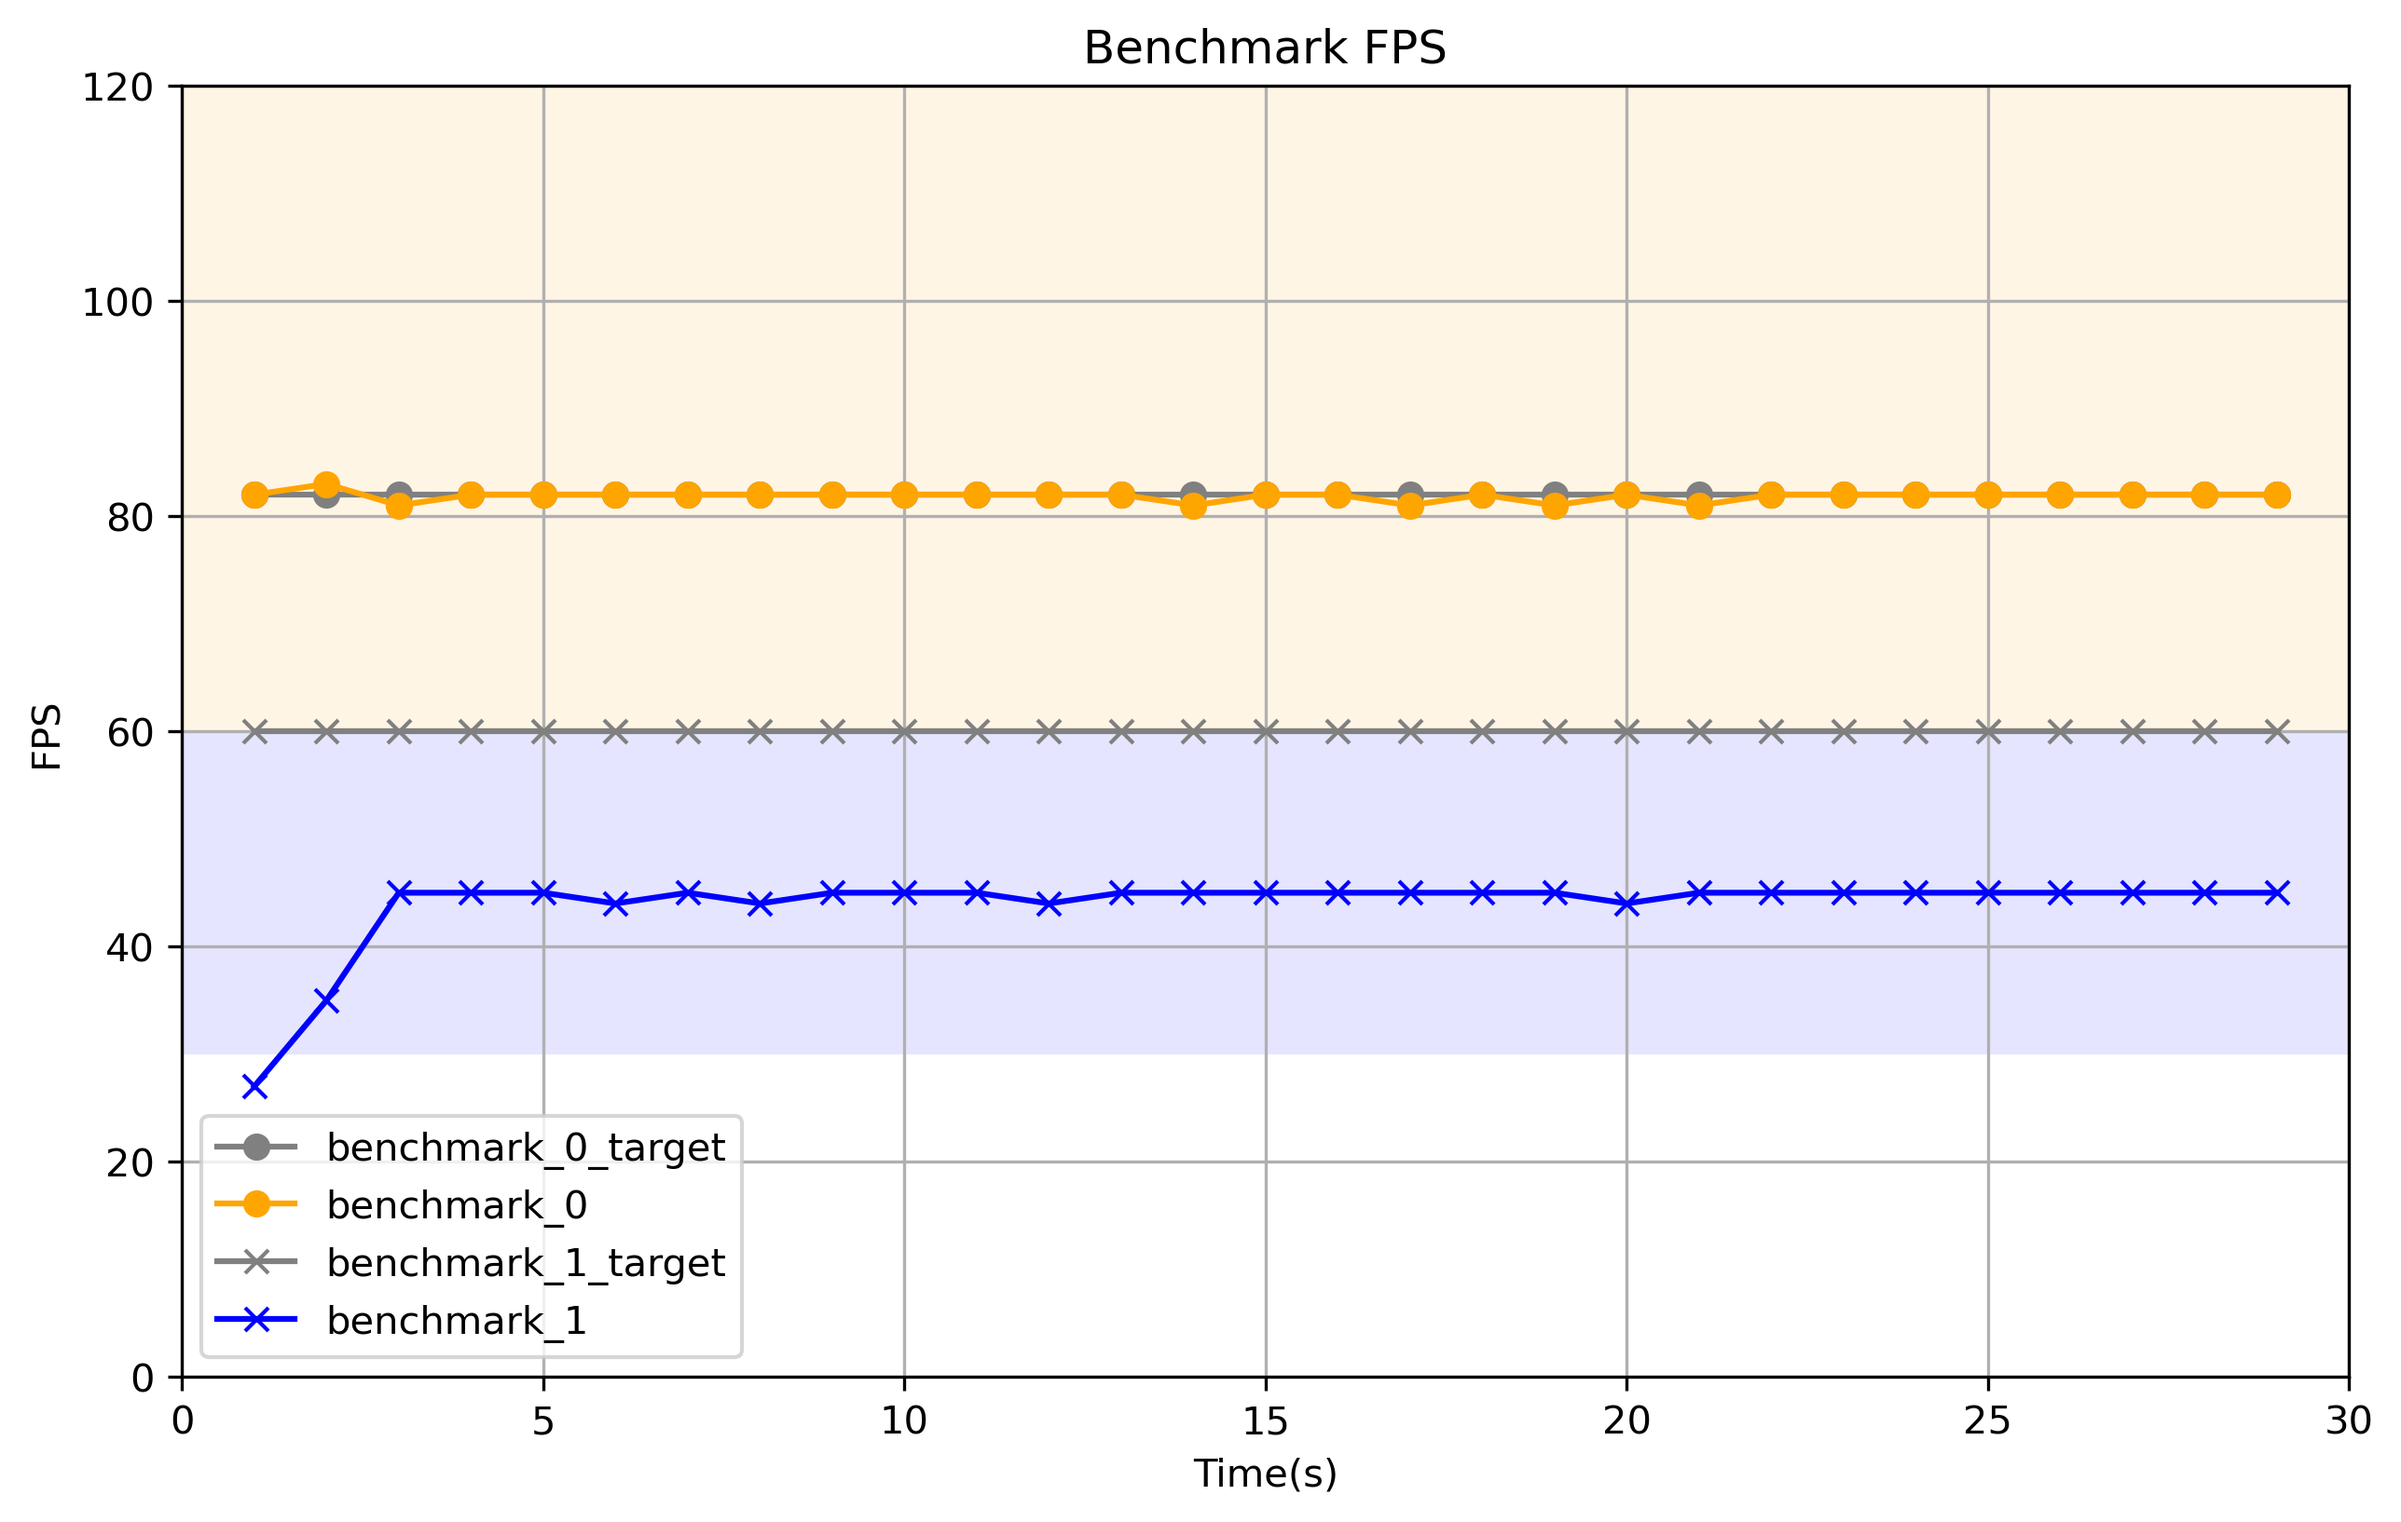
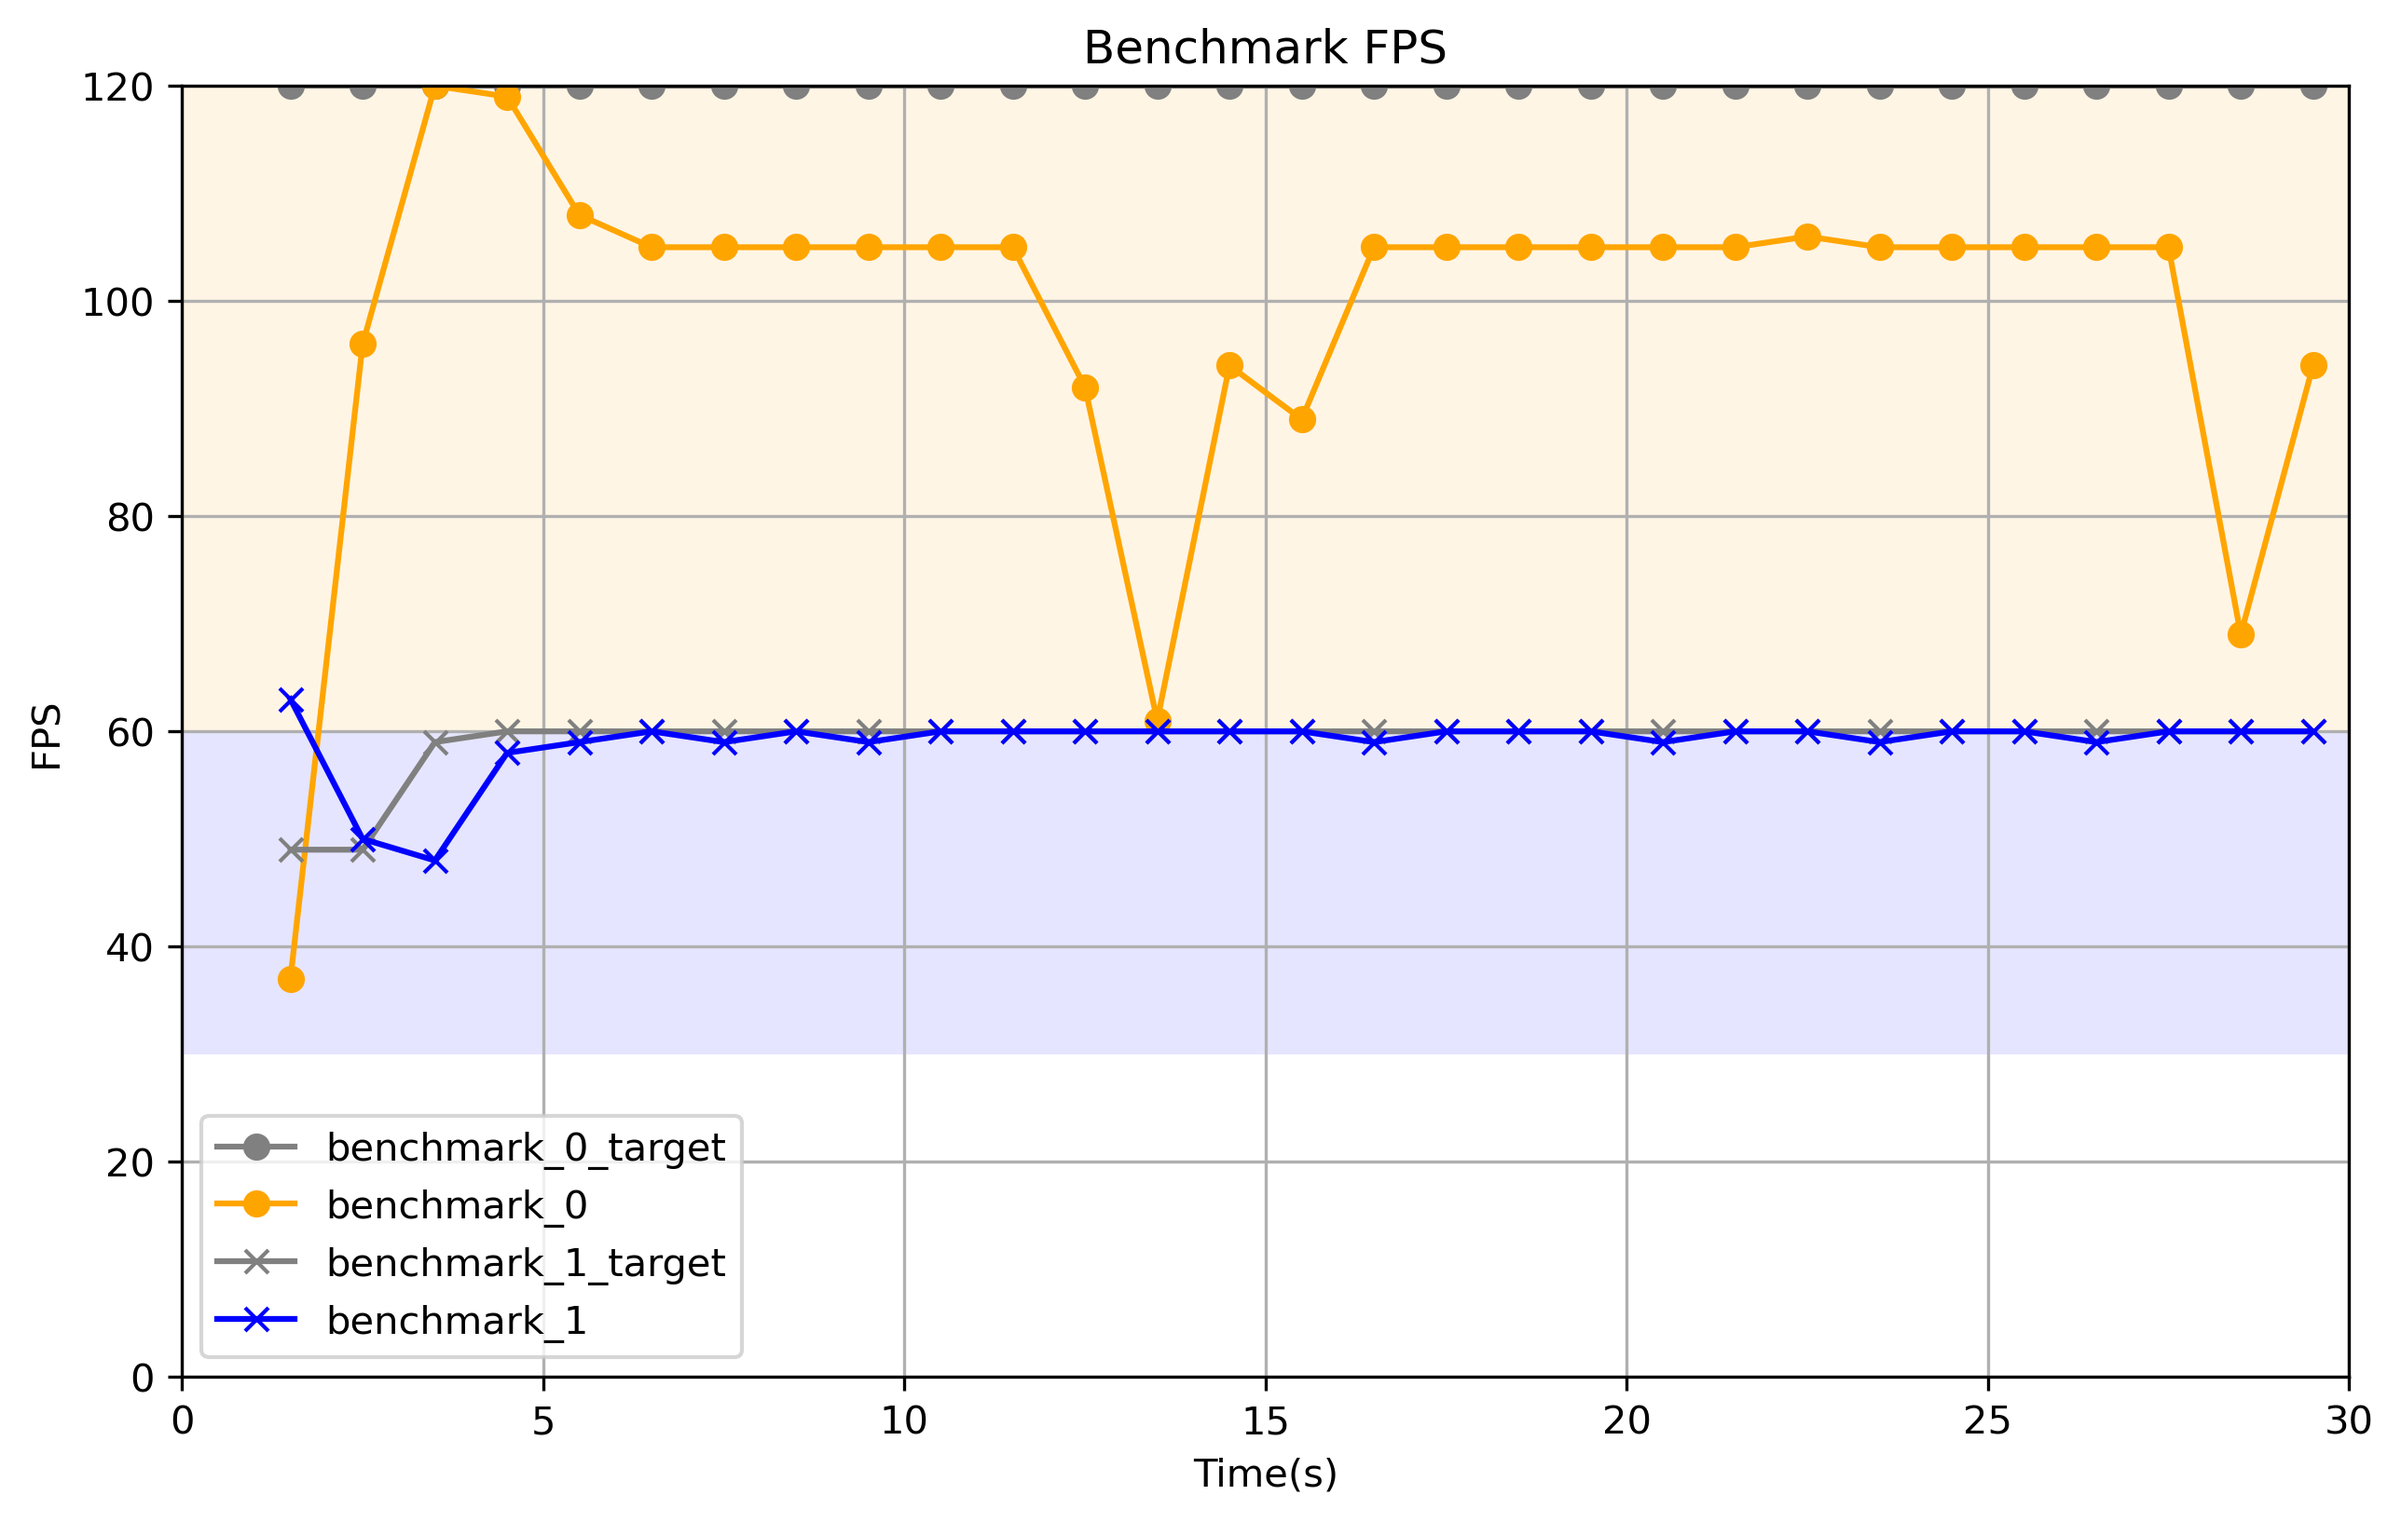
fix

diff --git a/demo4/fps_auto_limiter.py b/demo4/fps_auto_limiter.py
@@ -81,6 +81,7 @@ t = 0
 current_target_fpses = [120, target_fpses[1][1]]
 monitored_fpses = [[] for i in range(benchmark_count)]
 target_fps_logs = [[] for i in range(benchmark_count)]
+time_logs = []
 controller = PController()
 
 while t <= 29.5:
@@ -98,15 +99,15 @@ while t <= 29.5:
 
     if not all_updated:
         continue
-    # print(t)
+    time_logs.append(t)
 
     for i in range(benchmark_count):
         monitored_fpses[i].append(fpses[i])
         shms_get[i].buf[:4] = struct.pack("i", -1)
 
-    # 高優先度側が目標に達していない時
+    # 高優先度側が目標に達していない時(低優先度側がクラッシュしないよう最低10FPSは残す)
     if fpses[0] < target_fpses[0][0]:
-        current_target_fpses[1] += controller.update(fpses[0])
+        current_target_fpses[1] = max(10, current_target_fpses[1] + controller.update(fpses[0]))
         shms_send[1].buf[:4] = struct.pack("i", current_target_fpses[1])
     # 低優先度側が目標に達しておらず、高優先度側に余裕がある時
     elif fpses[1] < target_fpses[1][0] - 1 and fpses[0] > target_fpses[0][0] + 10:
@@ -138,18 +139,13 @@ def read_integers_from_file(filename):
         return [int(line.strip()) for line in f if line.strip()]
 
 def plot_graph():
-    col = len(monitored_fpses[0])
-
-    # 横軸を作成
-    x = [1 + (fps_get_interval/10) * i for i in range(col)]
-
     colors = ["orange", "blue"]
     shapes = ["o", "x"]
     # グラフ描画
     plt.figure(figsize=(10, 6))
     for i in range(benchmark_count):
-        plt.plot(x, target_fps_logs[i], label="benchmark_" + str(i) + "_target", marker=shapes[i], color="gray")
-        plt.plot(x, monitored_fpses[i], label="benchmark_" + str(i), marker=shapes[i], color=colors[i])
+        plt.plot(time_logs, target_fps_logs[i], label="benchmark_" + str(i) + "_target", marker=shapes[i], color="gray")
+        plt.plot(time_logs, monitored_fpses[i], label="benchmark_" + str(i), marker=shapes[i], color=colors[i])
         plt.axhspan(target_fpses[i][0], target_fpses[i][1], facecolor=colors[i], alpha=0.1)
 
     # グラフの装飾

diff --git a/func.py b/func.py
@@ -2,6 +2,9 @@ from reg import reg
 from dataclasses import dataclass
 from typing import Callable, Optional
 
+EXTENTION_APIS = [
+    "vkQueuePresentKHR",
+]
 
 @dataclass
 class Func:
@@ -176,7 +179,7 @@ def no_filter_funcs(
     for extention in registry.extensions:
         for req in extention.require:
             required_cmds.update(
-                [elm.name for elm in req.elements if elm.name == "vkQueuePresentKHR"]
+                [elm.name for elm in req.elements if elm.name in EXTENTION_APIS]
             )
     target_cmds = required_cmds - removed_cmds
 

diff --git a/vkaci_layer.cpp b/vkaci_layer.cpp
@@ -1337,9 +1337,8 @@ VKAPI_ATTR void VKAPI_CALL VKACI_CmdExecuteCommands(VkCommandBuffer commandBuffe
 extern "C" PUBLIC
 VKAPI_ATTR VkResult VKAPI_CALL VKACI_QueuePresentKHR(VkQueue queue, const VkPresentInfoKHR* pPresentInfo) {
   std::lock_guard<std::mutex> lg(global_lock);
-  
-    onSwapCompleted();
-    //printf("vkQueuePresentKHR_entry\n");
+  onSwapCompleted();
+  //printf("vkQueuePresentKHR_entry\n");
   VkResult _result = device_dispatch[GetKey(queue)].QueuePresentKHR(queue, pPresentInfo);
   //printf("vkQueuePresentKHR_exit\n");
   return _result;

diff --git a/hooks/example_trace.py b/hooks/example_trace.py
@@ -4,9 +4,8 @@ import func
 def _on_Swap_called(f: func.Func) -> func.Hook:
     return func.Hook(
         is_target=f.name == "vkQueuePresentKHR",
-        before_run="""
-    onSwapCompleted();
-    """,
+        before_run="""onSwapCompleted();
+  """,
     )
 
 def entry(f: func.Func) -> str:
